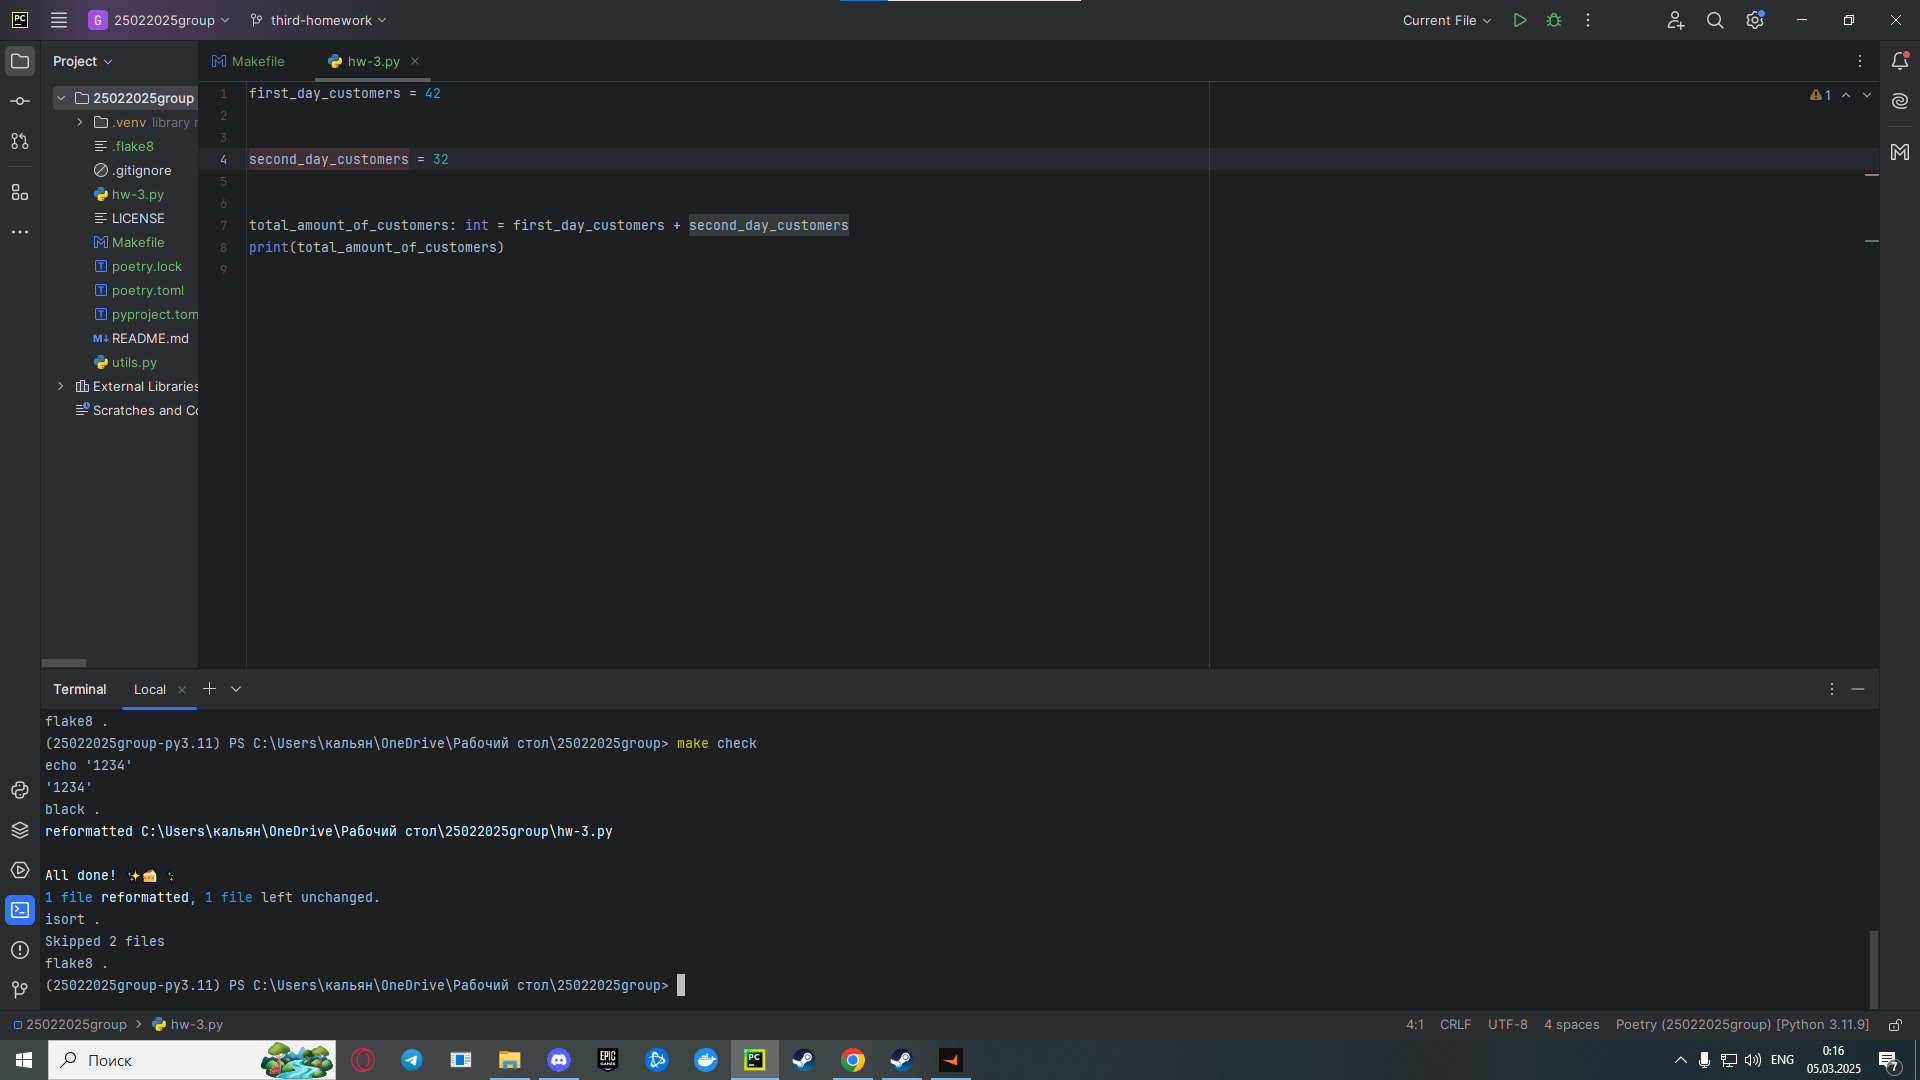
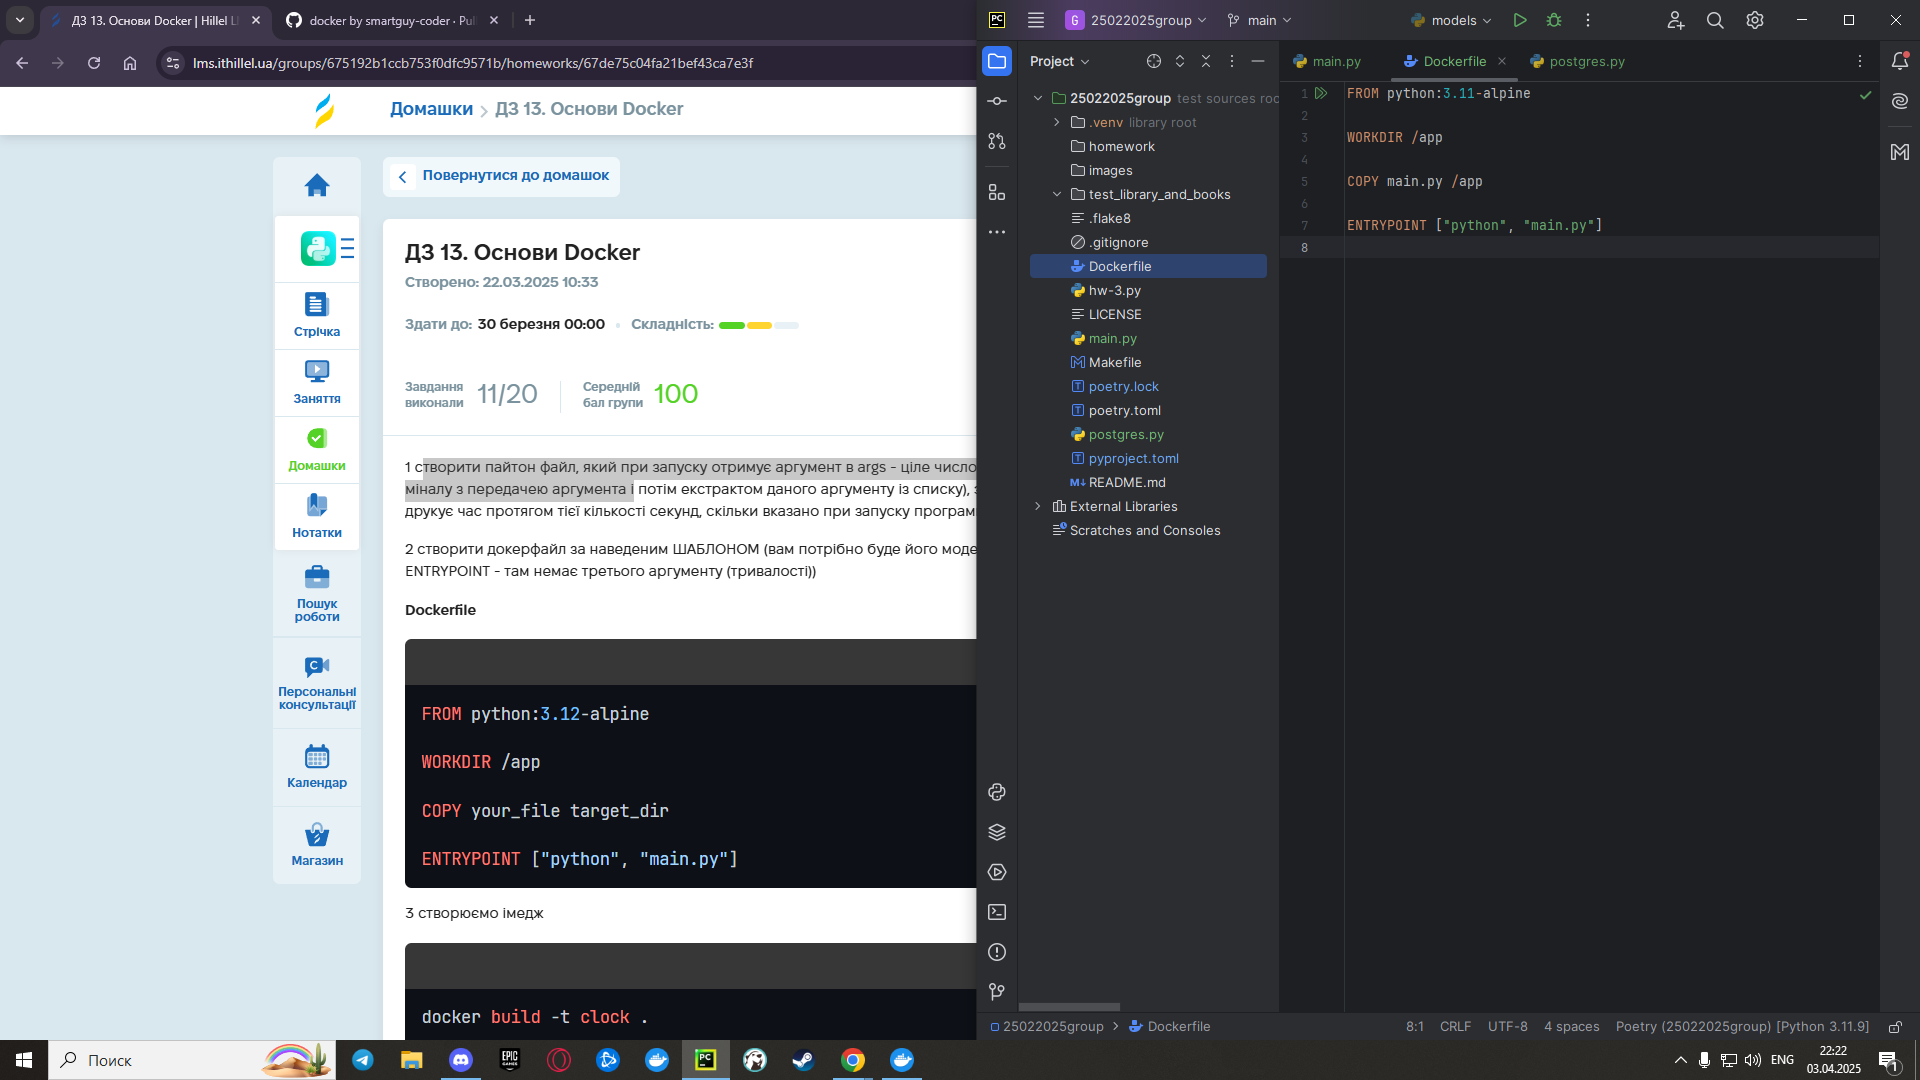
classwork and homework commit in case of trouble

diff --git a/postgres.py b/postgres.py
@@ -1,0 +1,60 @@
+import psycopg2
+
+PGHOST = 'ep-tiny-lake-a2a59kmr-pooler.eu-central-1.aws.neon.tech'
+PGDATABASE = 'neondb'
+PGUSER = 'neondb_owner'
+PGPASSWORD = 'npg_jas48GpSCfut'
+PORT = 5432
+
+with psycopg2.connect(dbname=PGDATABASE, user=PGUSER, password=PGPASSWORD, host=PGHOST, port=PORT) as connection:
+    with connection.cursor() as cursor:
+        query = """
+            CREATE TABLE IF NOT EXISTS brand (
+                id SERIAL PRIMARY KEY,
+                name VARCHAR(50) UNIQUE NOT NULL
+            )
+        """
+        cursor.execute(query)
+
+        query = """
+            CREATE TABLE IF NOT EXISTS customer (
+                id SERIAL PRIMARY KEY,
+                name VARCHAR(50) NOT NULL
+            );
+
+            CREATE TABLE IF NOT EXISTS car (
+                id SERIAL PRIMARY KEY,
+                model VARCHAR(50) NOT NULL,
+                cost INTEGER,
+                brand_id INTEGER REFERENCES brand(id),
+                customer_id INTEGER REFERENCES customer(id)
+            );
+        """
+        cursor.execute(query)
+
+# CREATE
+with psycopg2.connect(dbname=PGDATABASE, user=PGUSER, password=PGPASSWORD, host=PGHOST, port=PORT) as connection:
+    with connection.cursor() as cursor:
+        # query_insert =  'INSERT INTO brand (name) VALUES (%s)'
+        # cursor.execute(query_insert, ('BMW',))
+        # print(result1)
+
+        # query_insert = 'INSERT INTO brand (name) VALUES (%s) RETURNING id, name'
+        # cursor.execute(query_insert, ('AUDI2222',))
+        # print(cursor.fetchone())
+
+        # query_insert = 'INSERT INTO customer (name) VALUES (%s) RETURNING id, name'
+        # owners = [
+        #     ('Max',),
+        #     ('Max',),
+        #     ('Alex',),
+        # ]
+        # cursor.executemany(query_insert, owners)
+
+        query_insert = 'INSERT INTO car (model, cost, brand_id, customer_id) VALUES (%s, %s, %s, %s)'
+        cars = [
+            ('Corolla', 25000, 1, 4),
+            ('Yaris', 23000, 1, 7),
+            ('F150', 50000, 2, 4),
+        ]
+        cursor.executemany(query_insert, cars)

diff --git a/main.py b/main.py
@@ -1,0 +1,8 @@
+import sys
+import time
+
+print(sys.argv)
+
+for i in range(500):
+    print(i)
+    time.sleep(1)
